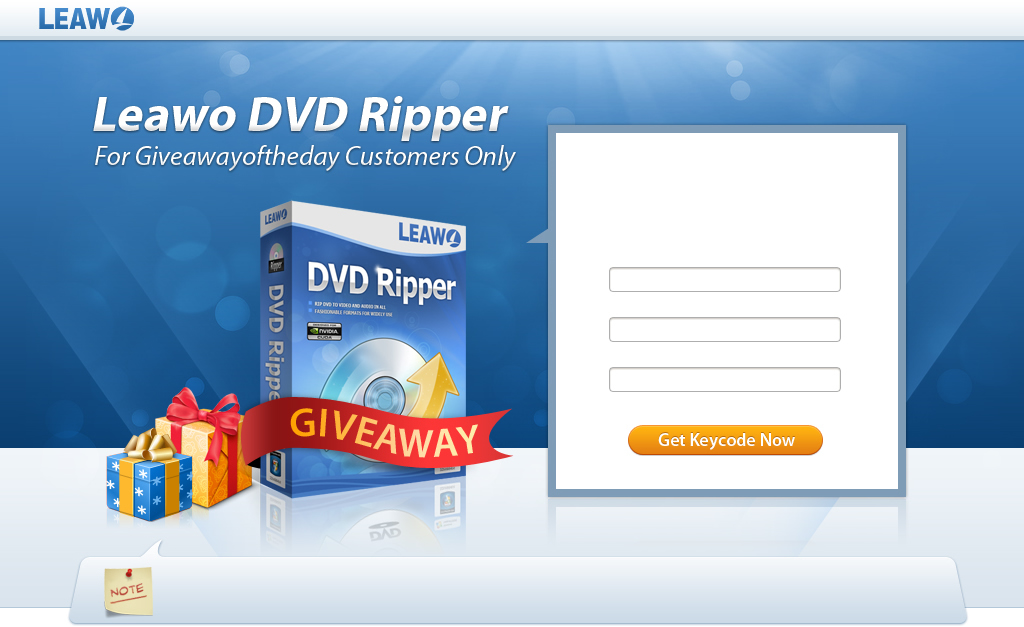
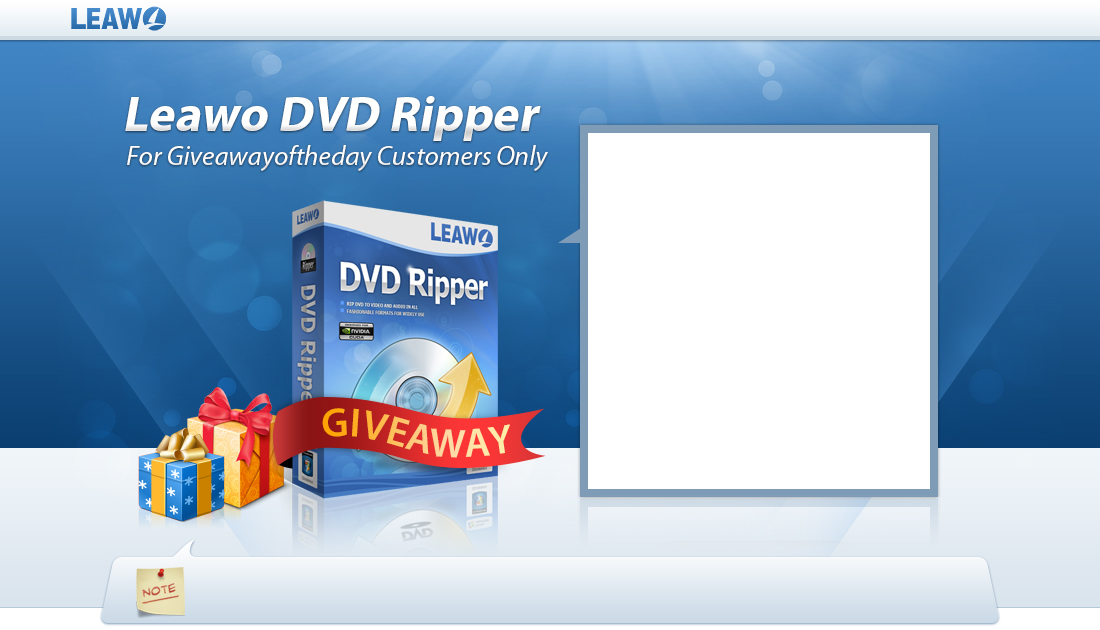
gengxin

diff --git a/public/mo/index.html b/public/mo/index.html
@@ -15,13 +15,28 @@
                         <h1>Giveaway - Get the keycode now!</h1>
                         <p class="style_text_color">Enter your email and name to get the free keycode now!</p>
                         <form id="reg_form" action="" method="post" class="style_form_1">
-                            <label for="email" class="style_text_color_1">Email:</label>
-                            <input type="text" name="email" data-message="please input your Email Address"><br/>
-                            <label for="first_name" class="style_text_color_1">First Name:</label>
-                            <input type="text" name="first_name" data-message="please input your First Name"><br/>
-                            <label for="last_name" class="style_text_color_1">Last Name:</label>
-                            <input type="text" name="last_name" data-message="please input your Last Name"><br/>
-                            <button type="submit" class="header_a_1" title="get keycode now"></button>
+                            <div class="cont_form1">
+                                <label for="email" class="style_text_color_1">Email:</label>
+                                <div class="border_form">
+                                    <span class="border_left_form"></span><span class="border_right_form"></span>
+                                    <input type="text" name="email" data-message="please input your Email Address">
+                                </div>
+                            </div>
+                            <div class="cont_form1">
+                                <label for="first_name" class="style_text_color_1">First Name:</label>
+                                <div class="border_form">
+                                    <span class="border_left_form"></span><span class="border_right_form"></span>
+                                    <input type="text" name="first_name" data-message="please input your First Name">
+                                </div>
+                            </div>
+                            <div class="cont_form1">
+                                <label for="last_name" class="style_text_color_1">Last Name:</label>
+                                <div class="border_form">
+                                    <span class="border_left_form"></span><span class="border_right_form"></span>
+                                    <input type="text" name="last_name" data-message="please input your Last Name">
+                                </div>
+                            </div>
+                                <button type="submit" class="header_a_1" title="get keycode now"></button>
                         </form>
                     </div>
                     <div id="content_1_header">
@@ -74,9 +89,9 @@
                         <div class="buy-btn-group">
                             <a href="#" class="btn buy-windows-btn"></a>
                         </div>
-                    </div>
-                    <div class="clear"></div>
+                    </div>    
                 </div>
+                <div class="clear"></div>
             </div>
         </div>
         <div id="footer">

diff --git a/public/mo/css/ys1.css b/public/mo/css/ys1.css
@@ -46,6 +46,7 @@ h1 {
     font-weight: bold;
     font-size: 14px;
     padding-bottom: 10px;
+    padding-left: 26px;
 }
 h2 {
     color: #be0000;
@@ -102,7 +103,7 @@ li {
 .style_text_color {
     color: #286196;
     font-size: 12px;
-    padding: 0px 10px;
+    padding: 0px 26px;
     line-height: 1.4em;
 }
 .style_text_color_1 {
@@ -127,20 +128,20 @@ li {
 #header {
     margin: 0 90px;
     position: relative;
-    height: 650px;
+    height: 640px;
 }
 #content_header {
     position: absolute;
     width: 320px;
-    height: 400px;
-    right: 40px;
+    height: 300px;
+    right: 14px;
     top: 160px;
 }
 #content_1_header {
     position: absolute;
     top: 570px;
     right: 0px;
-    width: 760px;
+    width: 750px;
 }
 .style_form_1 {
     padding: 25px 36px;
@@ -152,31 +153,62 @@ li {
     letter-spacing: -0.6px;
     line-height: 20px;
 }
-#header input {
-    width: 220px;
-    height: 17px;
-    margin-bottom: 11px;
-    border: none;
-    outline: none;
-}
 .header_a_1 {
     display: inline-block;
-    width: 180px;
+    width: 195px;
     height: 30px;
-    margin: 24px;
-    background: none;
+    margin: 10px 24px;
+    background: url(../img/icon.jpg) no-repeat -1px -66px;
     border:none;
     outline: none;
     cursor: pointer;
 }
+.cont_form1 {
+    position: relative;
+    padding: 5px 0 0 3px;
+}
+#header input {
+    border: none;
+    height: 18px;
+    line-height: 18px;
+    width: 100%;
+    background: none;
+    outline: none;
+}
+.border_form {
+    height: 18px;
+    background: url("../img/input-bg.png") 0 0 repeat-x;
+    position: relative;
+    padding: 4px;
+}
+.border_left_form {
+    position: absolute;
+    top: 0;
+    left: 0;
+    width: 4px;
+    height: 25px;
+    background: url(../img/input-radius.png) left top no-repeat;
+}
+.border_right_form {
+    position: absolute;
+    top: 0;
+    right: 0;
+    width: 4px;
+    height: 25px;
+    background: url(../img/input-radius.png) right top no-repeat;
+}
+#main_1 {
+    padding-left: 70px;
+    padding-top: 20px;
+}
 #main_1_1 {
     float: left;
-    padding-left: 66px;
+    padding-left: 20px;
     position: relative;
 }
 #main_1_2 {
     float: right;
-    padding-right: 56px;
+    padding-right: 20px;
     position: relative;
 }
 .main_1_a_1 {
@@ -198,7 +230,7 @@ li {
 #main_2 {
     background: url(../img/icon.jpg) -60px -2px no-repeat;
     height: 22px;
-    margin: 26px 80px;  
+    margin: 26px 40px;  
 }
 .style_main_text_color {
     display: inline-block;
@@ -206,7 +238,7 @@ li {
 }
 #main_3 {
     position: relative;
-    margin-left: 90px;
+    margin-left: 120px;
     padding-top: 20px;
 }
 #main_3_1 {
